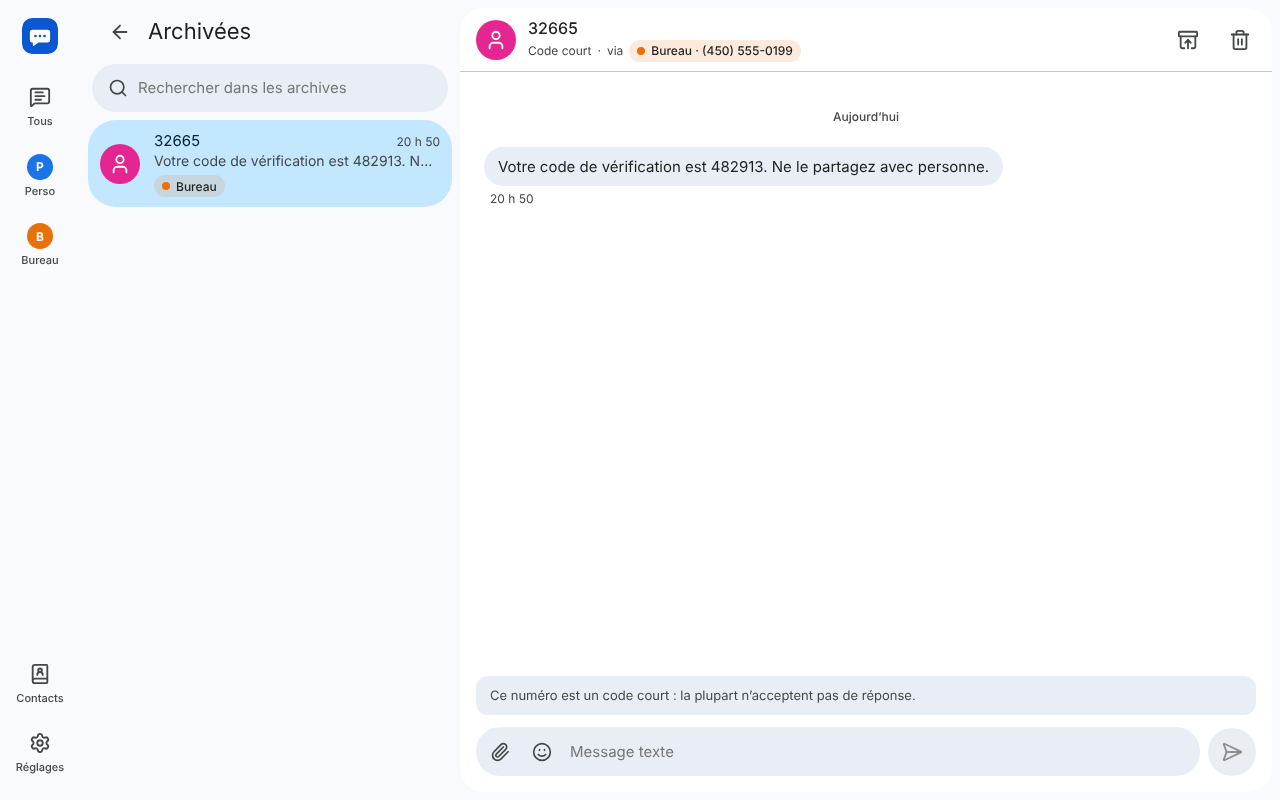
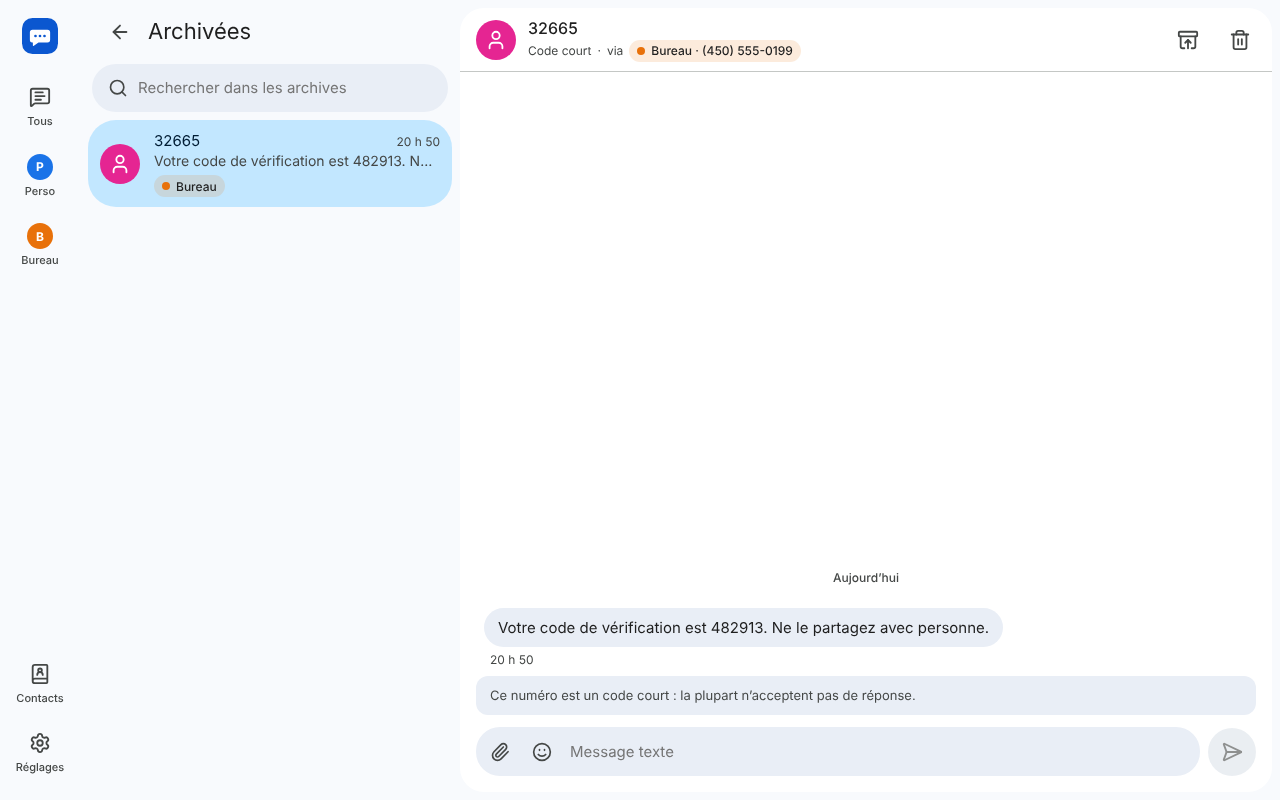
Keep the conversation in view when a phone's keyboard opens
Chrome on Android only slid the page up for the keyboard: the header went
out of sight, the messages left an empty area and the message box sat half
under the keyboard. The page now asks to be resized for it
(interactive-widget=resizes-content), and the app follows the visible area
(visualViewport) where a browser ignores that, as Safari does. The message
list keeps to its bottom as it shrinks, and a short conversation sits
right above the message box.

On narrow phones, the contact dialog's three buttons did not fit and
Delete stuck out of it: it now shows its bin alone there, with its label
kept for screen readers.

Claude-Session: https://claude.ai/code/session_01Qk3wrc5rxKyqAzffoGQfRs

diff --git a/web/src/styles.css b/web/src/styles.css
@@ -415,7 +415,8 @@ textarea.input {
 .app {
   display: grid;
   grid-template-columns: 80px minmax(300px, 380px) 1fr;
-  height: 100dvh;
+  /* What is on screen, keyboard aside (lib/viewport.ts). */
+  height: var(--app-height, 100dvh);
   overflow: hidden;
   background: var(--surface-dim);
 }
@@ -883,17 +884,21 @@ textarea.input {
 }
 
 .messages {
+  display: flex;
+  flex-direction: column;
   flex: 1;
   overflow-y: auto;
   overscroll-behavior: contain;
   padding: 16px 24px 8px;
 }
 
+/* A short conversation sits right above the message box, like the end of a long one. */
 .messages-inner {
   display: flex;
   flex-direction: column;
+  width: 100%;
   max-width: 880px;
-  margin: 0 auto;
+  margin: auto auto 0;
 }
 
 .day-sep {
@@ -1917,6 +1922,7 @@ textarea.input {
 
 .dialog-actions {
   display: flex;
+  flex-wrap: wrap;
   justify-content: flex-end;
   gap: 8px;
 }
@@ -2068,6 +2074,15 @@ textarea.input {
 
   .composer {
     padding: 6px 8px calc(8px + env(safe-area-inset-bottom));
+  }
+
+  /* The dialog's three buttons would not fit: deleting keeps its bin, and its title. */
+  .dialog-actions .btn.danger {
+    padding: 0 10px;
+  }
+
+  .dialog-actions .btn.danger .btn-label {
+    display: none;
   }
 
   .segmented button {

diff --git a/web/src/lib/viewport.ts b/web/src/lib/viewport.ts
@@ -1,0 +1,21 @@
+/**
+ * Keeps the app the size of what is on screen when a phone's keyboard
+ * opens. Chrome and Firefox on Android shrink the page for it
+ * (interactive-widget=resizes-content in index.html); Safari only shrinks
+ * the visible part and slides the page up, hiding the header and leaving
+ * the message box half under the keyboard. Sizing the app to the visible
+ * part (--app-height) covers both.
+ */
+export function fitToVisibleArea(): void {
+  const view = window.visualViewport;
+  if (!view) return;
+  const fit = () => {
+    // Pinching to zoom shrinks it too: only follow the keyboard.
+    if (Math.abs(view.scale - 1) > 0.01) return;
+    document.documentElement.style.setProperty('--app-height', `${Math.round(view.height)}px`);
+    if (view.offsetTop > 0) window.scrollTo(0, 0);
+  };
+  view.addEventListener('resize', fit);
+  view.addEventListener('scroll', fit);
+  fit();
+}

diff --git a/web/src/components/ContactDialog.tsx b/web/src/components/ContactDialog.tsx
@@ -146,9 +146,9 @@ export function ContactDialog({
         {error && <div className="error-text">{error}</div>}
         <div className="dialog-actions">
           {contact && (
-            <button type="button" className="btn danger" onClick={remove}>
+            <button type="button" className="btn danger" onClick={remove} aria-label={t('common.delete')} title={t('common.delete')}>
               <Trash2 size={18} />
-              {t('common.delete')}
+              <span className="btn-label">{t('common.delete')}</span>
             </button>
           )}
           <span className="spacer" />

diff --git a/web/src/components/Thread.tsx b/web/src/components/Thread.tsx
@@ -218,6 +218,15 @@ function MessageList({
     if (el && stickToBottom.current) el.scrollTop = el.scrollHeight;
   }, []);
 
+  // So does a phone's keyboard opening, which shrinks the list from below.
+  useEffect(() => {
+    const el = scroller.current;
+    if (!el) return;
+    const observer = new ResizeObserver(onMediaLoad);
+    observer.observe(el);
+    return () => observer.disconnect();
+  }, [onMediaLoad]);
+
   const lastOutgoingId = useMemo(() => [...messages].reverse().find((m) => m.direction === 'out')?.id, [messages]);
 
   return (

diff --git a/web/index.html b/web/index.html
@@ -2,7 +2,7 @@
 <html lang="fr">
   <head>
     <meta charset="UTF-8" />
-    <meta name="viewport" content="width=device-width, initial-scale=1, viewport-fit=cover" />
+    <meta name="viewport" content="width=device-width, initial-scale=1, viewport-fit=cover, interactive-widget=resizes-content" />
     <meta name="theme-color" content="#f8fafd" />
     <meta name="color-scheme" content="light dark" />
     <meta name="robots" content="noindex, nofollow" />

diff --git a/web/src/main.tsx b/web/src/main.tsx
@@ -3,9 +3,11 @@ import { createRoot } from 'react-dom/client';
 import { App } from './App';
 import './lib/install';
 import { applyTheme } from './lib/theme';
+import { fitToVisibleArea } from './lib/viewport';
 import './styles.css';
 
 applyTheme();
+fitToVisibleArea();
 window.matchMedia('(prefers-color-scheme: dark)').addEventListener('change', () => applyTheme());
 
 createRoot(document.getElementById('root')!).render(

diff --git a/CHANGELOG.md b/CHANGELOG.md
@@ -2,6 +2,11 @@
 
 All notable changes to this project. Versions follow [Semantic Versioning](https://semver.org/); the running version is shown at the bottom of *Settings*.
 
+## Unreleased
+
+- On phones, opening the keyboard no longer slides the conversation up out of sight: the header stays, the latest messages stay right above the message box, and the box is no longer half under the keyboard. A short conversation now sits right above the message box, like the end of a long one.
+- On narrow phones, the contact dialog's *Delete* button shows its bin alone instead of sticking out of the dialog.
+
 ## 1.5.0 (2026-10-17)
 
 - **Deleting messages and conversations.** Tap a message to delete it, or use the bin in a conversation's header to delete it all. Deleted texts leave the portal for good, on every device, and checking VoIP.ms does not bring them back; a new text brings a deleted conversation back, with that text only. The confirmation offers to delete them at VoIP.ms too (off by default, and for good), which the server does in the background, one message at a time, trying again after a network error.
